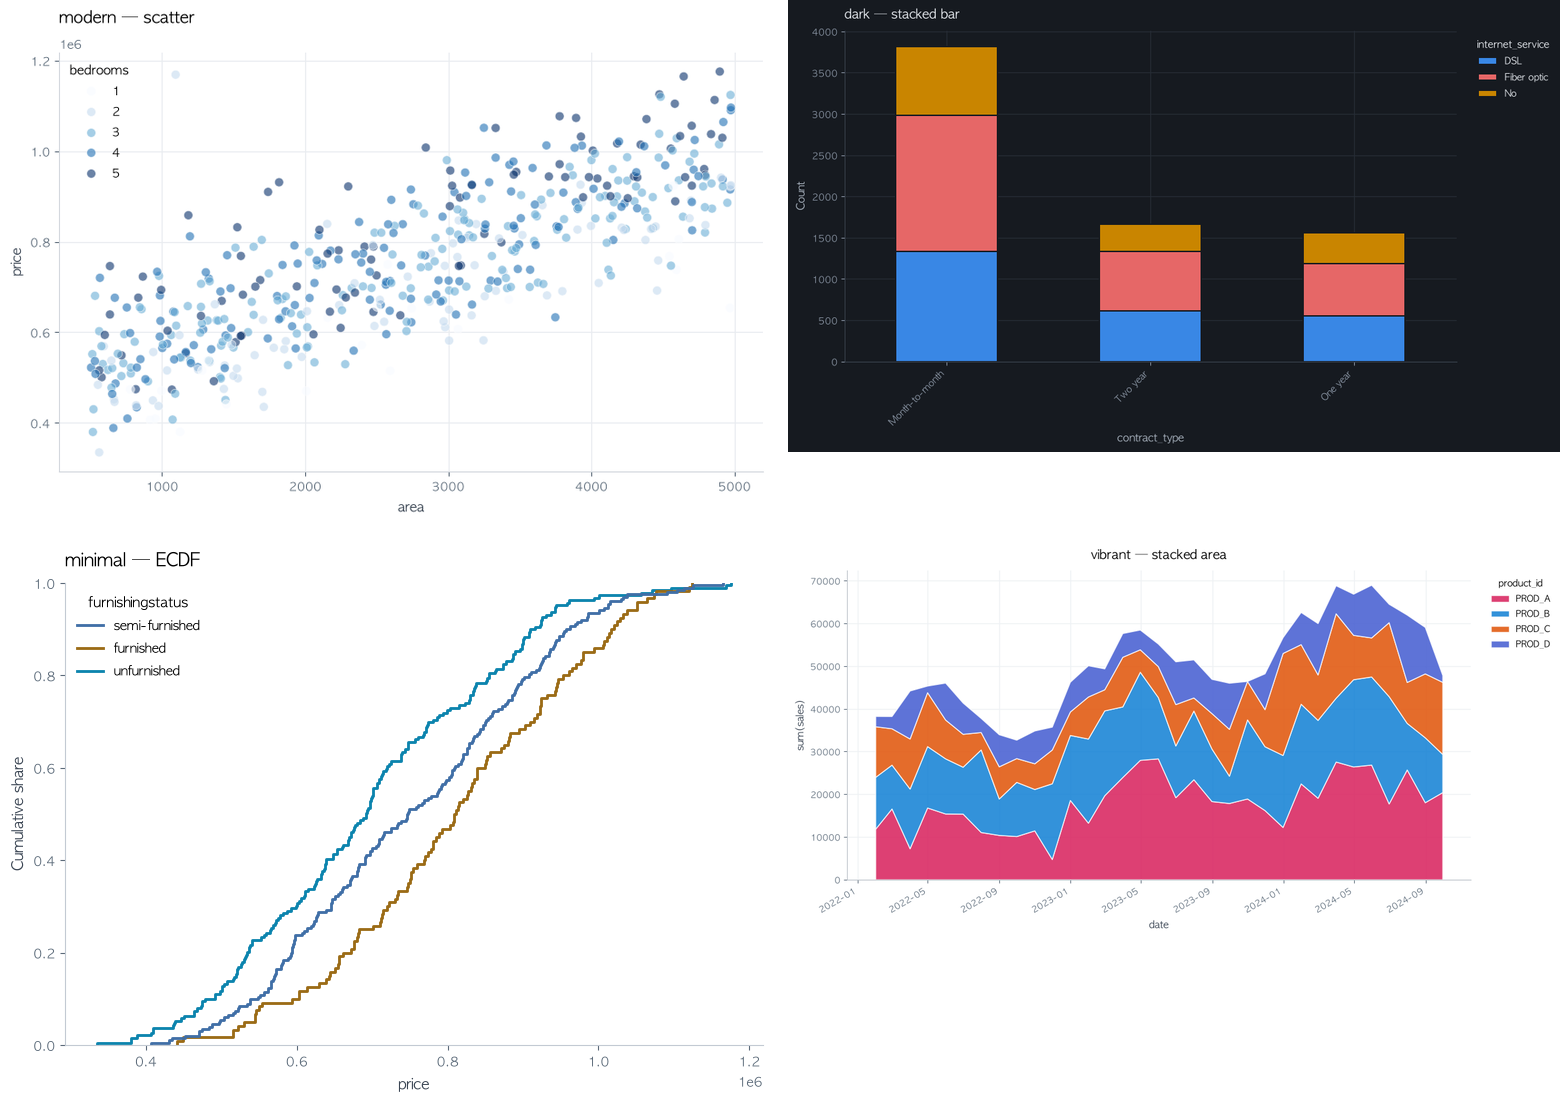
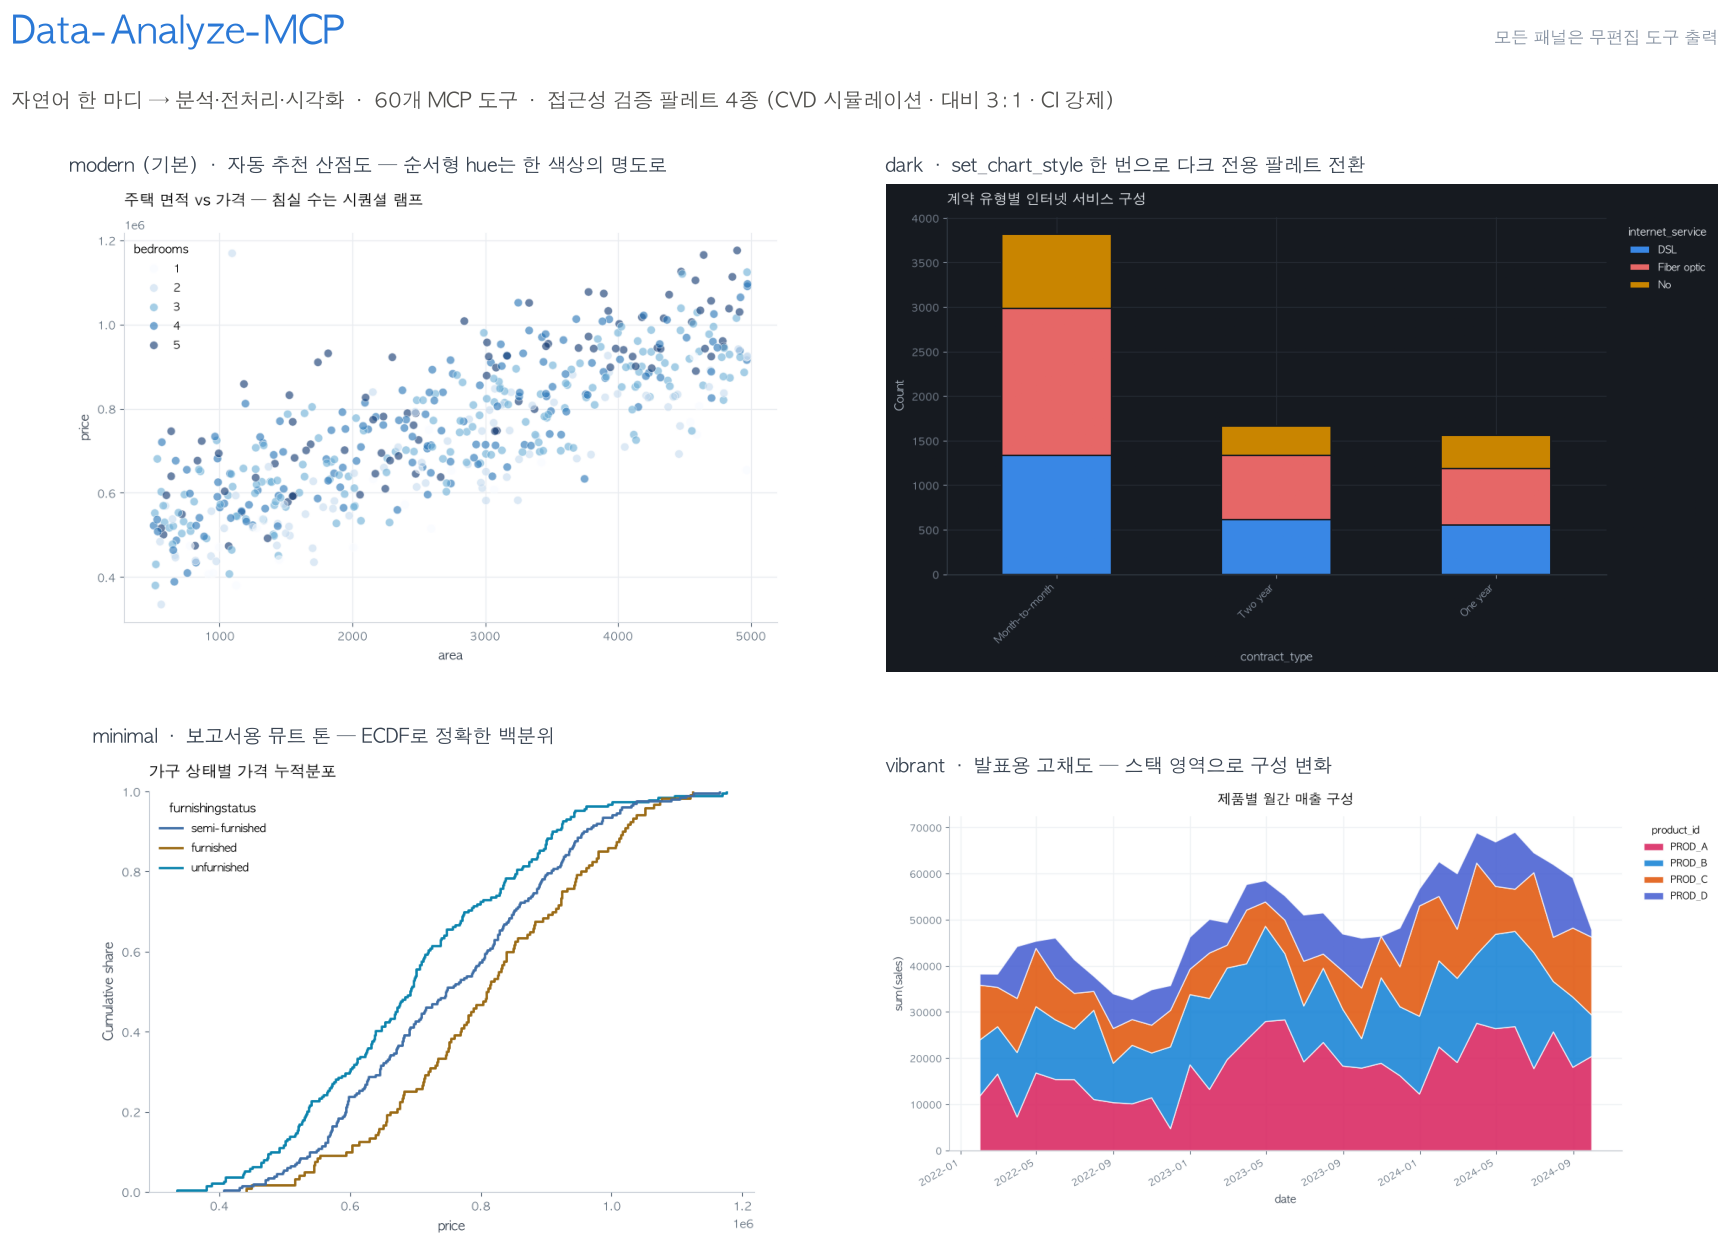
docs: typeset showcase hero — title row, per-panel theme captions
Replaces the plain image-paste montage with a composed board: brand
title, value-prop subtitle, per-panel captions naming the theme and the
design rule each panel demonstrates. Panels remain unedited tool outputs.

diff --git a/scripts/generate_demo_images.py b/scripts/generate_demo_images.py
@@ -97,38 +97,72 @@ ship(
     "demo_vibrant.png",
 )
 
-# 8. Showcase montage: four forms × four themes in one strip.
-from PIL import Image  # noqa: E402
+# 8. Showcase hero — a typeset board: title row + four captioned panels.
+#    Every panel is still an unedited tool output; only the framing is set.
+import matplotlib.image as mpimg  # noqa: E402
+import matplotlib.pyplot as plt  # noqa: E402
+import shutil as _shutil  # noqa: E402
 
 theming.apply("modern")
-panel_a = visualization.plot_scatter(
-    HOUSE, "area", "price", hue_column="bedrooms", title="modern — scatter",
+panel_a = _shutil.copy(
+    visualization.plot_scatter(
+        HOUSE, "area", "price", hue_column="bedrooms",
+        title="주택 면적 vs 가격 — 침실 수는 시퀀셜 램프",
+    ),
+    WORK / "_panel_a.png",
 )
 theming.apply("dark")
-panel_b = composition.plot_stacked_bar(
-    CHURN, "contract_type", "internet_service", title="dark — stacked bar",
+panel_b = _shutil.copy(
+    composition.plot_stacked_bar(
+        CHURN, "contract_type", "internet_service",
+        title="계약 유형별 인터넷 서비스 구성",
+    ),
+    WORK / "_panel_b.png",
 )
 theming.apply("minimal")
-panel_c = distribution.plot_ecdf(
-    HOUSE, "price", group_column="furnishingstatus", title="minimal — ECDF",
+panel_c = _shutil.copy(
+    distribution.plot_ecdf(
+        HOUSE, "price", group_column="furnishingstatus",
+        title="가구 상태별 가격 누적분포",
+    ),
+    WORK / "_panel_c.png",
 )
 theming.apply("vibrant")
-panel_d = composition.plot_area(
-    SALES, "date", "sales", group_column="product_id", resample="ME",
-    title="vibrant — stacked area",
+panel_d = _shutil.copy(
+    composition.plot_area(
+        SALES, "date", "sales", group_column="product_id", resample="ME",
+        title="제품별 월간 매출 구성",
+    ),
+    WORK / "_panel_d.png",
 )
+theming.apply("modern")
 
-cells = [Image.open(p) for p in (panel_a, panel_b, panel_c, panel_d)]
-w = min(im.width for im in cells)
-cells = [im.resize((w, int(im.height * w / im.width)), Image.LANCZOS) for im in cells]
-gap = 16
-row_h = [max(cells[i].height for i in pair) for pair in ((0, 1), (2, 3))]
-canvas = Image.new("RGB", (2 * w + gap, sum(row_h) + gap), "#ffffff")
-canvas.paste(cells[0], (0, 0))
-canvas.paste(cells[1], (w + gap, 0))
-canvas.paste(cells[2], (0, row_h[0] + gap))
-canvas.paste(cells[3], (w + gap, row_h[0] + gap))
-canvas.save(IMAGES / "showcase.png", optimize=True)
+PANELS = [
+    (panel_a, "modern (기본)", "자동 추천 산점도 — 순서형 hue는 한 색상의 명도로"),
+    (panel_b, "dark", "set_chart_style 한 번으로 다크 전용 팔레트 전환"),
+    (panel_c, "minimal", "보고서용 뮤트 톤 — ECDF로 정확한 백분위"),
+    (panel_d, "vibrant", "발표용 고채도 — 스택 영역으로 구성 변화"),
+]
+
+fig = plt.figure(figsize=(16, 11.6), facecolor="#ffffff")
+gs = fig.add_gridspec(2, 2, left=0.015, right=0.985, top=0.845, bottom=0.015,
+                      wspace=0.05, hspace=0.17)
+for (path, theme, caption), pos in zip(PANELS, [gs[0, 0], gs[0, 1], gs[1, 0], gs[1, 1]]):
+    ax = fig.add_subplot(pos)
+    ax.imshow(mpimg.imread(path))
+    ax.axis("off")
+    ax.set_title(f"{theme}  ·  {caption}", fontsize=12.5, color="#3a4553",
+                 loc="left", pad=8)
+fig.text(0.015, 0.955, "Data-Analyze-MCP", fontsize=24, fontweight="bold",
+         color="#2a78d6", ha="left")
+fig.text(0.015, 0.905,
+         "자연어 한 마디 → 분석·전처리·시각화  ·  60개 MCP 도구  ·  접근성 검증 팔레트 4종 (CVD 시뮬레이션 · 대비 3:1 · CI 강제)",
+         fontsize=13, color="#52514e", ha="left")
+fig.text(0.985, 0.955, "모든 패널은 무편집 도구 출력", fontsize=11,
+         color="#8b96a5", ha="right")
+fig.savefig(IMAGES / "showcase.png", dpi=110, facecolor="#ffffff",
+            bbox_inches="tight")
+plt.close(fig)
 print("  showcase.png")
 
 theming.apply("modern")